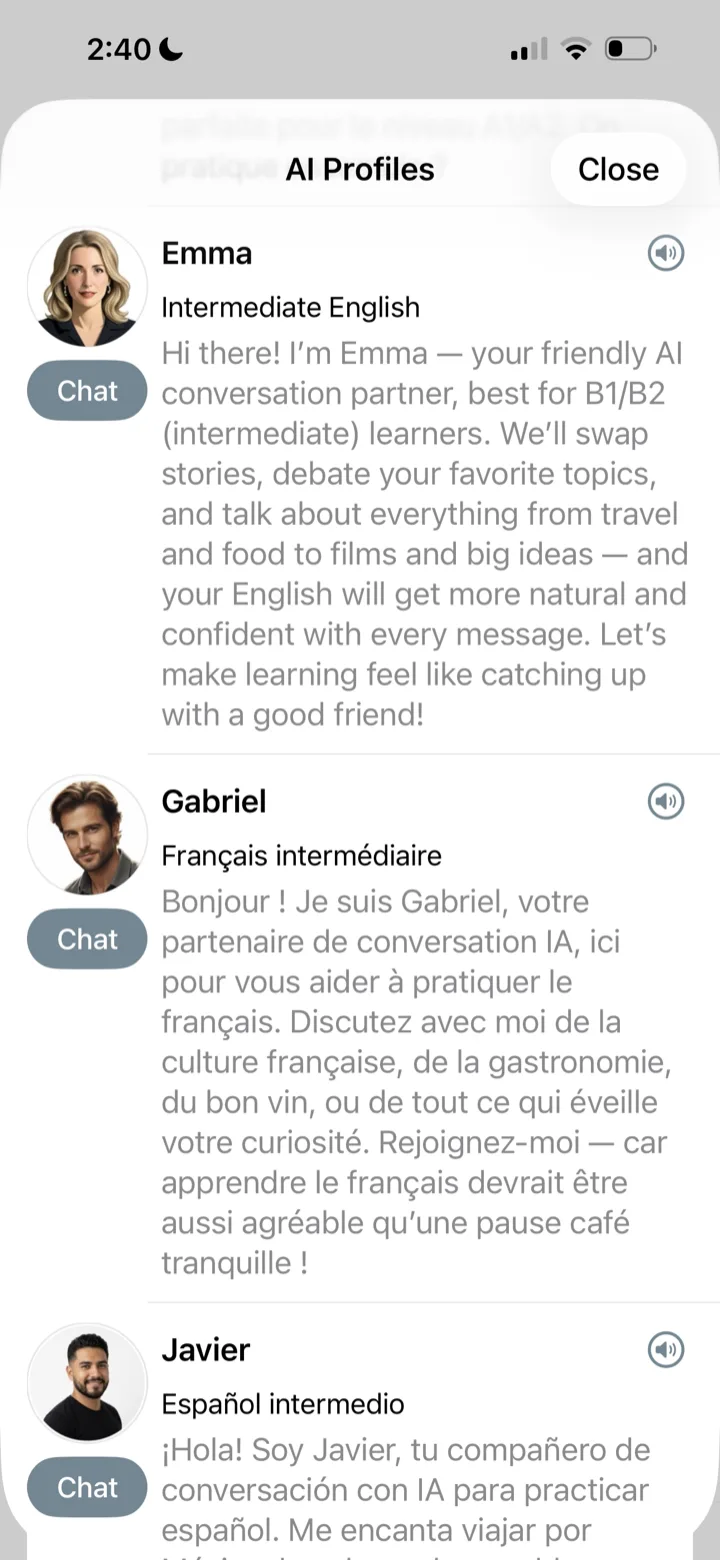
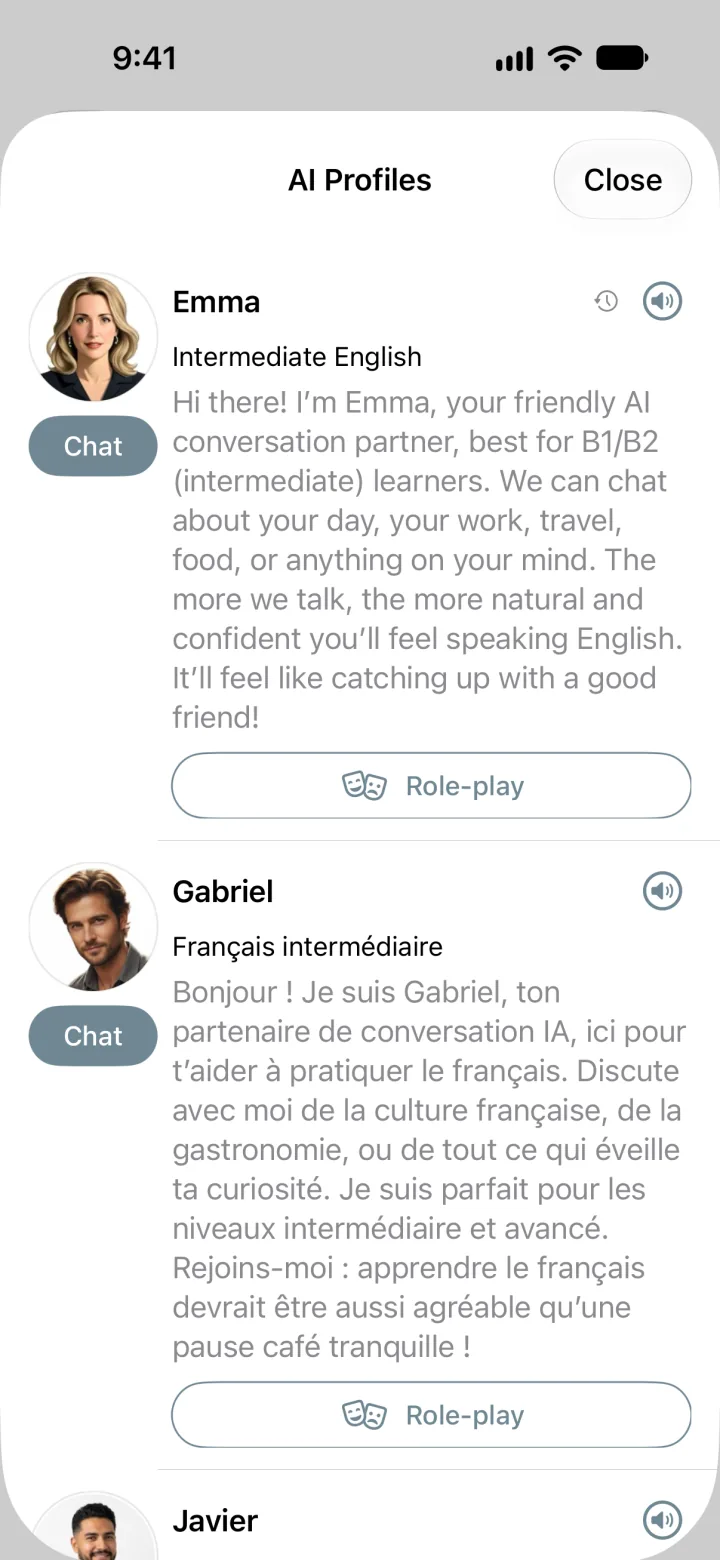
Updated the partners screenshot on the homepage

diff --git a/uk/index.md b/uk/index.md
@@ -34,7 +34,7 @@ lang: uk-UA
     <figcaption>Говоріть замість того, щоб друкувати (iOS 26+)</figcaption>
   </figure>
   <figure class="screenshot">
-    <img src="{{ '/images/screenshot-4-partners.webp' | relative_url }}" width="720" height="1560" alt="Список ШІ-співрозмовників: Emma, Gabriel і Javier із зазначенням рівня" />
+    <img src="{{ '/images/screenshot-4-partners.webp' | relative_url }}" width="720" height="1560" alt="Список ШІ-співрозмовників: Emma і Gabriel із зазначенням рівня та кнопками рольової гри" />
     <figcaption>Обирайте з-поміж семи співрозмовників</figcaption>
   </figure>
 </div>

diff --git a/ru/index.md b/ru/index.md
@@ -34,7 +34,7 @@ lang: ru-RU
     <figcaption>Говорите вместо того, чтобы печатать (iOS 26+)</figcaption>
   </figure>
   <figure class="screenshot">
-    <img src="{{ '/images/screenshot-4-partners.webp' | relative_url }}" width="720" height="1560" alt="Список ИИ-собеседников: Emma, Gabriel и Javier с указанием уровня" />
+    <img src="{{ '/images/screenshot-4-partners.webp' | relative_url }}" width="720" height="1560" alt="Список ИИ-собеседников: Emma и Gabriel с указанием уровня и кнопками ролевой игры" />
     <figcaption>Выбирайте из семи собеседников</figcaption>
   </figure>
 </div>

diff --git a/fr/index.md b/fr/index.md
@@ -34,7 +34,7 @@ Devenez un communicateur plus confiant avec Razmova. Entraînez-vous à parler a
     <figcaption>Parlez au lieu de taper (iOS 26+)</figcaption>
   </figure>
   <figure class="screenshot">
-    <img src="{{ '/images/screenshot-4-partners.webp' | relative_url }}" width="720" height="1560" alt="Liste des partenaires IA avec Emma, Gabriel et Javier et leur niveau" />
+    <img src="{{ '/images/screenshot-4-partners.webp' | relative_url }}" width="720" height="1560" alt="Liste des partenaires IA avec Emma et Gabriel, leur niveau et les boutons de jeu de rôle" />
     <figcaption>Choisissez parmi sept partenaires de conversation</figcaption>
   </figure>
 </div>

diff --git a/es/index.md b/es/index.md
@@ -34,7 +34,7 @@ Conviértete en un comunicador más seguro con Razmova. Practica inglés, españ
     <figcaption>Habla en lugar de escribir (iOS 26+)</figcaption>
   </figure>
   <figure class="screenshot">
-    <img src="{{ '/images/screenshot-4-partners.webp' | relative_url }}" width="720" height="1560" alt="Lista de compañeros de IA con Emma, Gabriel y Javier y sus niveles" />
+    <img src="{{ '/images/screenshot-4-partners.webp' | relative_url }}" width="720" height="1560" alt="Lista de compañeros de IA con Emma y Gabriel, sus niveles y botones de juego de rol" />
     <figcaption>Elige entre siete compañeros de conversación</figcaption>
   </figure>
 </div>

diff --git a/index.md b/index.md
@@ -34,7 +34,7 @@ Become a more confident communicator with Razmova. Practice speaking English, Sp
     <figcaption>Speak instead of typing (iOS 26+)</figcaption>
   </figure>
   <figure class="screenshot">
-    <img src="{{ '/images/screenshot-4-partners.webp' | relative_url }}" width="720" height="1560" alt="List of AI partners showing Emma, Gabriel and Javier with their levels" />
+    <img src="{{ '/images/screenshot-4-partners.webp' | relative_url }}" width="720" height="1560" alt="List of AI partners showing Emma and Gabriel with their levels and Role-play buttons" />
     <figcaption>Choose from seven conversation partners</figcaption>
   </figure>
 </div>
